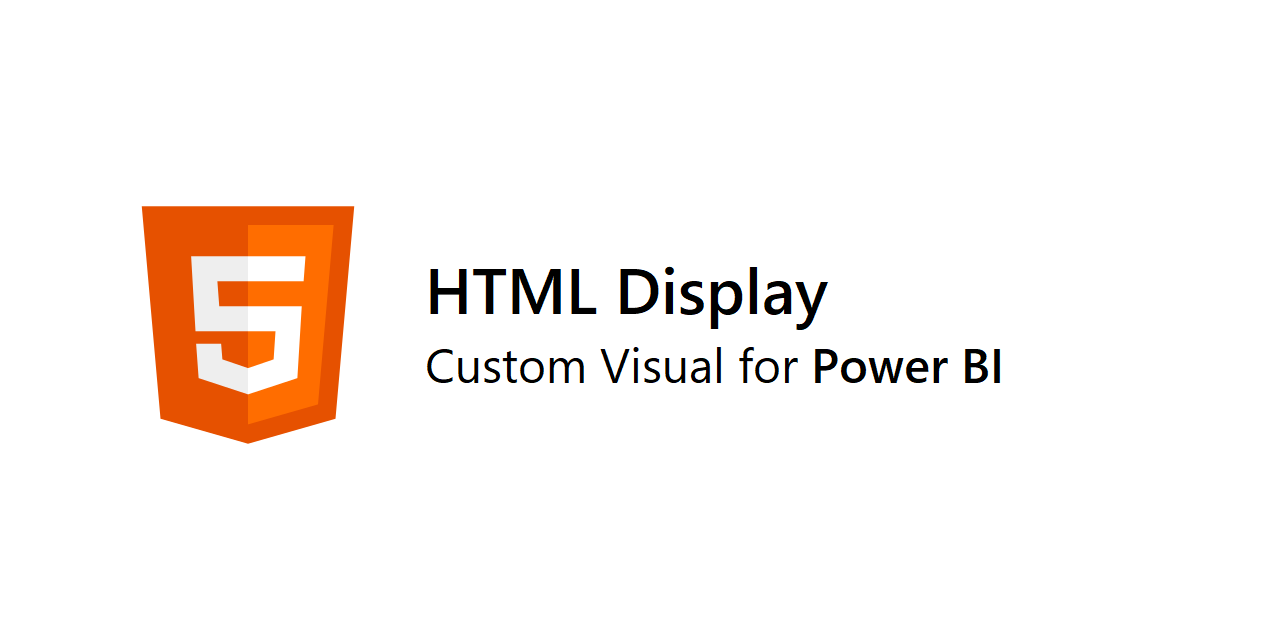
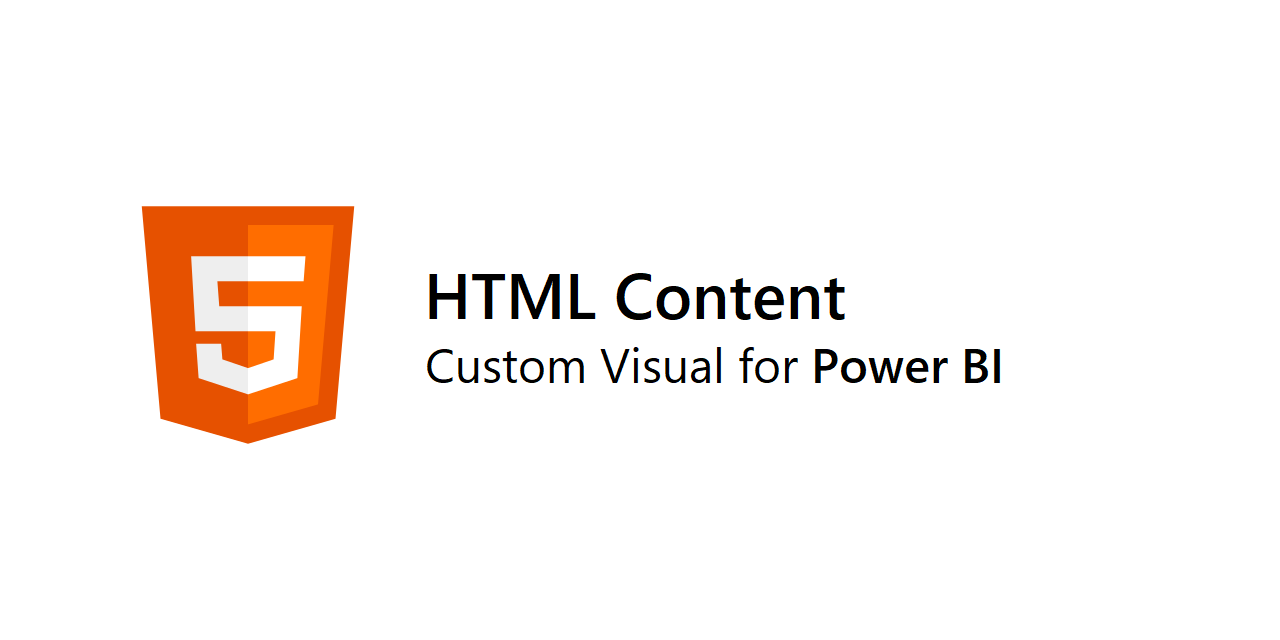
1.0.1 Changes (prior to initial marketplace publish):  - Visual renamed to HTML Content  - Removed content separation property and functionality in readiness for more advanced features  - HTML Content data role renamed to Values

Changed region(s): [[0.3125, 0.4062, 0.6562, 0.5312]]

diff --git a/src/DomainUtils.ts b/src/DomainUtils.ts
@@ -37,27 +37,6 @@
             }
 
         /**
-         * If the user wishes to separate grouping elements with something else, handle and append accordingly.
-         * 
-         * @param type              - The separation type to apply to elements.
-         * @param dataElements      - The elements to analyse and process.
-         */
-            export function resolveGroupSeparation(
-                type: string,
-                dataElements: d3.Selection<any, any, any, any>
-            ) {
-                // Remove the final element, as it's not required
-                    let eligible = dataElements.filter((e, i) => i < dataElements.data().length - 1);
-                // Add the necessary separation to each eligible group
-                    switch (type) {
-                        case 'hr': {
-                            eligible.append('hr');
-                            break;
-                        }
-                    }
-            }
-
-        /**
          * As we want to display different types of element for each entry/grouping, we will clear down the 
          * existing children and rebuild with our desired element for handling raw vs. rendered HTML.
          * 

diff --git a/src/visual.ts b/src/visual.ts
@@ -38,7 +38,7 @@
             private landingContainer: d3.Selection<HTMLDivElement, any, any, any>;
         // Used for handling issues in the visual
             private statusContainer: d3.Selection<HTMLDivElement, any, any, any>;
-        // USed for HTML content from data model
+        // Used for HTML content from data model
             private contentContainer: d3.Selection<HTMLDivElement, any, any, any>;
         // Visual host services
             private host: IVisualHost;
@@ -122,7 +122,6 @@
                                     viewModel.htmlEntries
                                 );
                             DomainUtils.resolveHtmlGroupElement(dataElements, viewModel.contentFormatting.showRawHtml);
-                            DomainUtils.resolveGroupSeparation(viewModel.contentFormatting.separation, dataElements);
                             DomainUtils.resolveBodyStyling(this.container, {
                                 fontFamily: viewModel.contentFormatting.fontFamily,
                                 fontSize: viewModel.contentFormatting.fontSize,

diff --git a/src/VisualSettings.ts b/src/VisualSettings.ts
@@ -35,8 +35,6 @@ export class VisualSettings extends DataViewObjectsParser {
 }
 
 export class ContentFormattingSettings {
-    // Separate row data
-        public separation: string = VisualConstants.contentFormatting.separation;
     // Whether to render as HTML or show raw code
         public showRawHtml: boolean = VisualConstants.contentFormatting.showRawHtml;
     // Allow hyperlinks to be opened using the visual host

diff --git a/doc/usage.md b/doc/usage.md
@@ -6,7 +6,7 @@
 ---
 ## Getting Started
 
-To use the visual, you need to either create a column or measure in your data model that contains valid HTML. When this is added to the **HTML Content** data role, the visual will attempt to render the supplied HTML in the current row context.
+To use the visual, you need to either create a column or measure in your data model that contains valid HTML. When this is added to the **Values** data role, the visual will attempt to render the supplied HTML in the current row context.
 
 Let's work through this with an example. Consider the following data - I'm using the [Financial Sample workbook](https://docs.microsoft.com/en-us/power-bi/create-reports/sample-financial-download) data model:
 
@@ -23,11 +23,11 @@ Let's say we want to represent the country with its flag using the [Country Flag
  ```
 Country Flag HTML = "<img src='https://www.countryflags.io/" & Financials[Country Code] & "/flat/24.png'>"
  ```
-We can now add this to the HTML Display visual's **HTML Content** data role and we'll see a flag for each value of `Financials[Country Code]`, e.g.:
+We can now add this to the HTML Display visual's **Values** data role and we'll see a flag for each value of `Financials[Country Code]`, e.g.:
 
 ![html_country_flag_column.png](./assets/png/html_country_flag_column.png "A HTML column that generates a flag from a remote API, rendered in our visual.")
 
-> Note that while conventional HTML code snippets might use double quotes (`"`) for attribute values, these need to be escaped in DAX by using `""` for every occurrence of a double quote character. This can be tricky to keep track of in more advanced use cases.
+> Note that while conventional HTML might use double quotes (`"`) for attribute values, these need to be escaped in DAX by using `""` for every occurrence of a double quote character. This can be tricky to keep track of in more advanced use cases.
 >
 > Because single quotes are valid in the W3C HTML specification, I'll be using this format going forward to keep my example DAX code a bit easier to manage. If you do want to use double quotes, the above could also be written as:
 >
@@ -45,13 +45,13 @@ Similar to the above, we could create a measure to "narrate" this as follows:
 
 > Note that the measure doesn't have to have the `<HTML>` prefix. As it's good practice to try and prefix measure names  with units to denote what type of value they return, like a `$`, `#` etc. This is my preferred prefix to denote that the measure returns HTML output when inspecting it in the *Fields* list. 
 
-Like before, we can add this to the visual's **HTML Content** data role and this will result in the following output:
+Like before, we can add this to the visual's **Values** data role and this will result in the following output:
 
 ![html_simple_measure.png](./assets/png/html_simple_measure.png "Using a measure to create another, HTML-based one.")
 
 ### Providing Additional Row Context
 
-As the **HTML Content** data role contains the HTML we want to render and our measure has no additional context, we just get the total.
+As the **Values** data role contains the HTML we want to render and our measure has no additional context, we just get the total.
 
 If we want to split our measure for the distinct `[Country  Code]`, we can add our column to the **Granularity** data role and this will create the necessary context in the visual, e.g.:
 
@@ -79,19 +79,11 @@ Any value that matches the desired grain can be added - in the example above, un
 
 You can add multiple fields to **Granularity** to produce the necessary row context if your measure requires a further level of uniqueness.
 
-## Value Separation
-
-The visual will flow HTML produced for each value together, but you can set the **Value Separation Method** property in the **Content Formatting** menu to separate them with a horizontal rule or `<hr/>` element. The last value will not include the separator, e.g.:
-
-![html_separation_horizonal_rule.png](./assets/png/html_separation_horizonal_rule.png "Separation of discrete values with a <hr/> (horizontal rule) element.")
-
 ## Raw HTML
 
 The **Show Raw HTML** property can be used to debug your generated HTML output, e.g.:
 
 ![html_raw_view.png](./assets/png/html_raw_view.png "Viewing raw generated HTML.")
-
-Note that the **Value Separation Method** can also be used to better distiguish generated HTML for each value.
 
 ## Handling Hyperlinks to External URLs
 

diff --git a/README.md b/README.md
@@ -1,4 +1,4 @@
-# HTML Display for Power BI
+# HTML Content for Power BI
 
 By Daniel Marsh-Patrick
 
@@ -24,7 +24,6 @@ There are some worked examples of how to approach this visual if you haven't use
 There are some additional features that the original doesn't have:
 
 * You can use HTML generated from measures.
-* You can opt to separate data rows with a `<hr/>` (horizontal rule) element if multiple values are passed in.
 * You can opt to see the raw HTML rather than rendered HTML for debugging purposes.
 * By default, hyperlinks wouldn't work due to custom visual limitations, but in this version you can opt to delegate URL requests to Power BI, which will provide the user with a prompt and request their approval. Please note that if in the Service, URLs will open in a new tab. This is how URLs need to work inside custom visuals.
 
